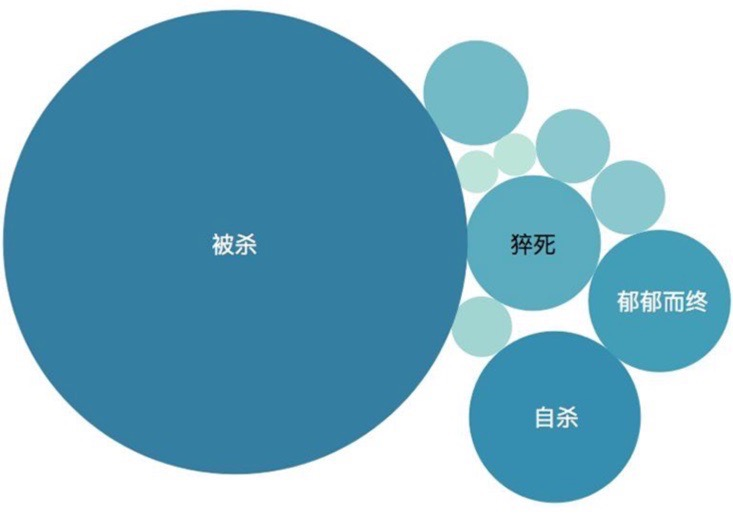
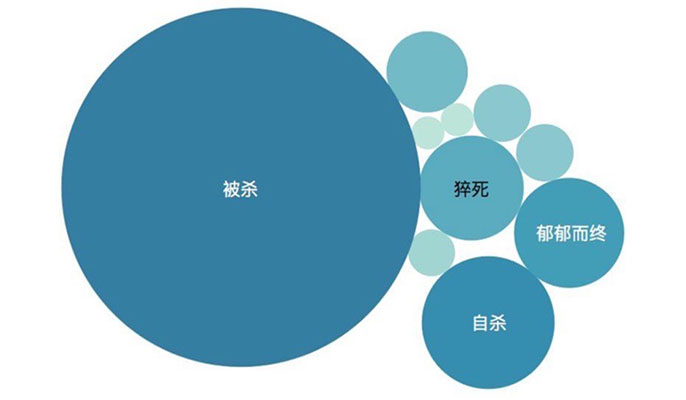
youhua

diff --git a/build/main.css b/build/main.css
@@ -25814,7 +25814,7 @@ page-bj .slide_18 {
 page-bj .slide_1 .bj_text_area {
   width: 80%;
   position: absolute;
-  top: calc(44px + env(safe-area-inset-top));
+  top: calc(88px + env(safe-area-inset-top));
   text-align: left;
 }
 
@@ -25891,16 +25891,18 @@ page-bj .slide_8 .bj_slide_area .bj_title {
   width: 100%;
   color: black;
   font-size: 20px;
+  line-height: 30px;
+  margin: 16px 0px;
   position: absolute;
-  top: calc(74px + env(safe-area-inset-top));
+  top: calc(88px + env(safe-area-inset-top));
 }
 
 page-bj .slide_4 .bj_slide_area .bj_img,
 page-bj .slide_8 .bj_slide_area .bj_img {
   width: 100%;
-  height: calc(100vw * 517 / 733);
+  height: calc(100vw * 400 / 686);
   position: relative;
-  top: calc(124px + env(safe-area-inset-top));
+  top: calc(150px + env(safe-area-inset-top));
 }
 
 page-bj .slide_4 .bj_slide_area .bj_grid_title,
@@ -25908,13 +25910,13 @@ page-bj .slide_8 .bj_slide_area .bj_grid_title {
   text-align: left;
   padding-left: 10px;
   position: relative;
-  top: calc(124px + env(safe-area-inset-top));
+  top: calc(150px + env(safe-area-inset-top));
 }
 
 page-bj .slide_4 .bj_slide_area .bj_grid,
 page-bj .slide_8 .bj_slide_area .bj_grid {
   position: relative;
-  top: calc(124px + env(safe-area-inset-top));
+  top: calc(150px + env(safe-area-inset-top));
   width: 80%;
   margin: 0px;
 }
@@ -25965,15 +25967,19 @@ page-bj .slide_6 .bj_slide_area .bj_title,
 page-bj .slide_10 .bj_slide_area .bj_title {
   color: black;
   width: 100%;
-  font-size: 30px;
   text-align: center;
-  margin-top: calc(74px + env(safe-area-inset-top));
-  margin-bottom: 30px;
+  font-size: 20px;
+  line-height: 30px;
+  margin: 16px 0px;
+  position: absolute;
+  top: calc(88px + env(safe-area-inset-top));
 }
 
 page-bj .slide_6 .bj_slide_area .bj_echarts_area,
 page-bj .slide_10 .bj_slide_area .bj_echarts_area {
   width: 100%;
+  position: relative;
+  top: calc(150px + env(safe-area-inset-top));
 }
 
 page-bj .slide_6 .bj_slide_area .bj_echarts_area .bj_echarts_container,
@@ -25987,6 +25993,8 @@ page-bj .slide_6 .bj_slide_area .bj_count_area,
 page-bj .slide_10 .bj_slide_area .bj_count_area {
   text-align: left;
   padding-left: 20px;
+  position: relative;
+  top: calc(150px + env(safe-area-inset-top));
 }
 
 page-bj .slide_6 .bj_slide_area .bj_count_area .bj_count_line,
